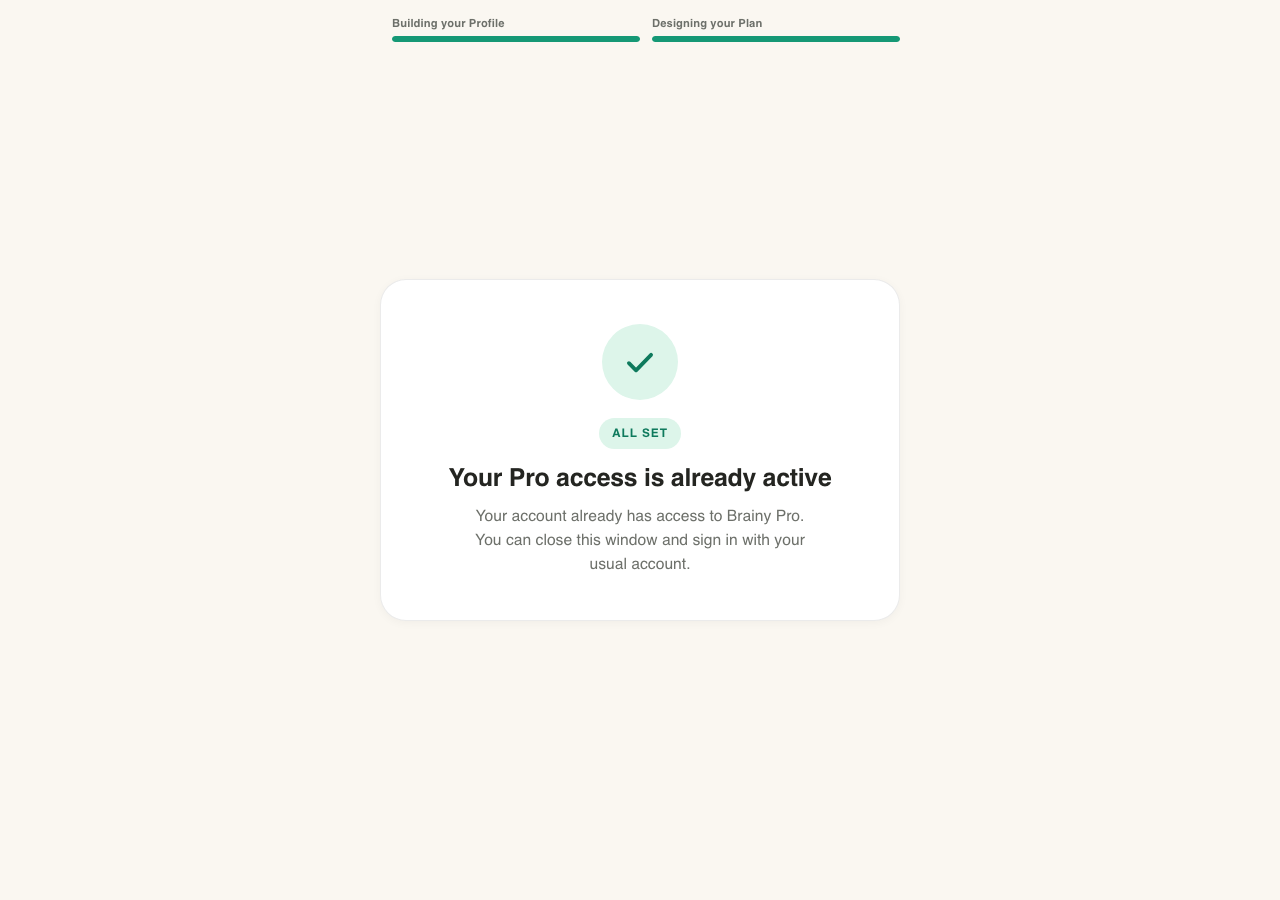
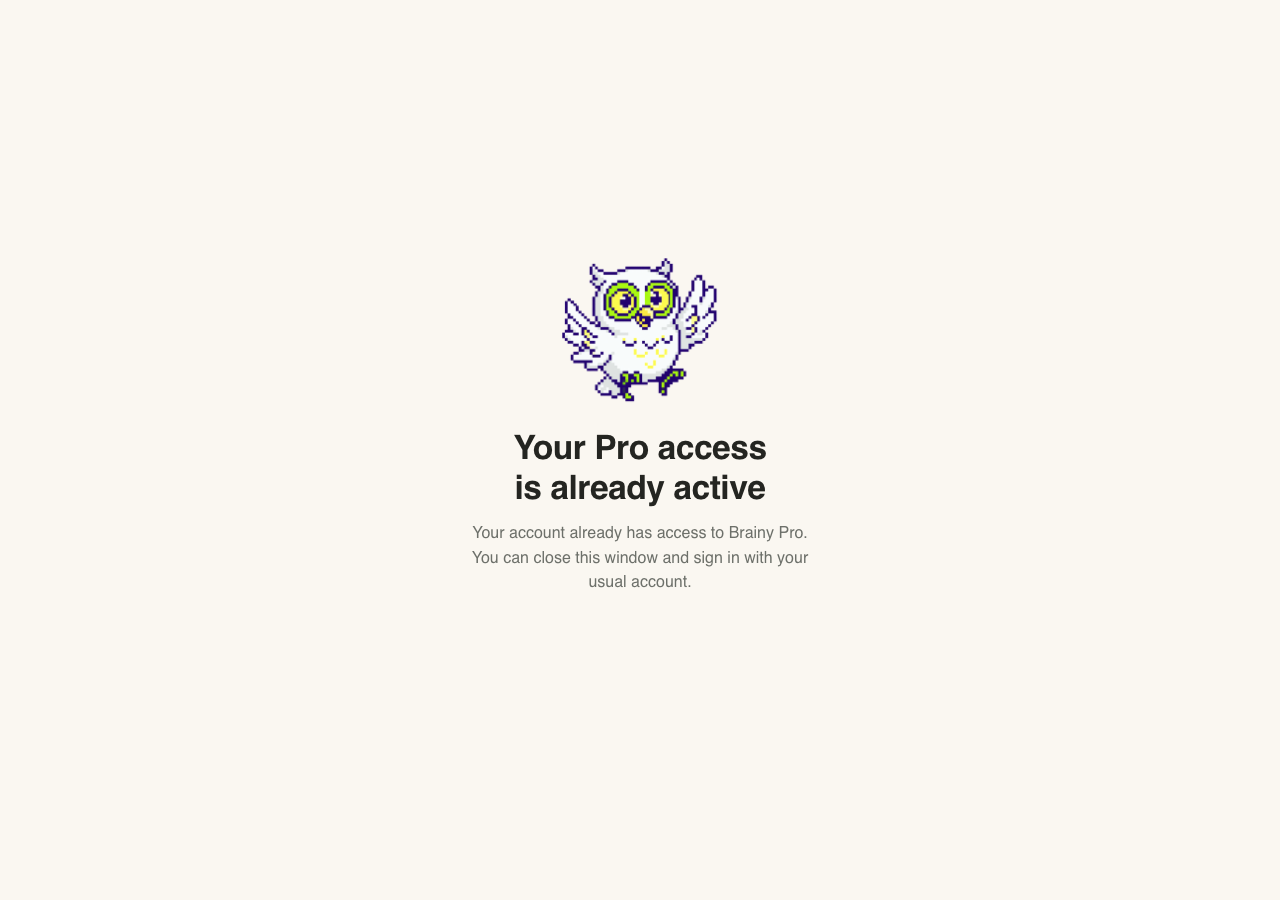
refactor(funnel): rediseño visual de la pantalla final post-compra
Cambio solo de presentacion. Sin logica, sin estados y sin copy de la compra.

Nuevo diseno (ES/EN con localizedText)
- Logo assets/logomain.png centrado arriba, 150px (160 en desktop, 132 bajo
  360px), alto automatico para no deformar. Decorativo: alt vacio y
  aria-hidden.
- Titulo: "¡Tu plan ya está listo!".
- Texto: "En los proximos segundos recibiras un correo con tus datos de acceso
  y las instrucciones para ver tu plan en Brainy."
- Subtitulo: "Cuando tengas la app:".
- Tres pasos numerados con circulos verdes discretos: elegir "Ya tengo una
  Cuenta", ingresar con correo y contrasena, escribir las credenciales del
  correo.
- Nota: revisar Spam o Promociones.

Sin tarjeta pesada: el bloque blanco sutil es solo el de las instrucciones.
Contenedor de 520px, centrado verticalmente cuando cabe, sin overflow
horizontal desde 320px.

Eliminado de esta pantalla: encabezado de etapas "Creando tu Perfil /
Disenando tu Plan" (updateProgress lo oculta en success y handoff), check
grande, bloque de correo con sobre, nota de cierre, boton "Abrir Brainy", QR,
"Copiar enlace", App Store, Google Play, deep links, "Gestionar suscripcion",
CTAs, enlaces y redirecciones. Cero elementos enfocables.

Sin cambios: purchase(), recovery (retryHandoffBtn intacto), la variante
alreadyPro, la navegacion y el orden de pasos, las condiciones de exito, el
checkout, RevenueCat, Stripe, Supabase y el backend.

Changed region(s): [[0.3438, 0.28, 0.6562, 0.6533], [0.3125, 0.0, 0.7188, 0.0622]]

diff --git a/funnel.html b/funnel.html
@@ -3254,167 +3254,115 @@
 
           /* ============================================================
              Pantalla terminal post-compra.
-             Una sola confirmacion, sin acciones: no abre la app, no
-             instala nada, no lleva a ningun sitio. Solo confirma que
-             la compra y el plan se completaron y que el correo con
-             las instrucciones esta en camino.
+             Presentacion informativa y sin acciones: solo confirma que
+             la compra y el plan se completaron y explica como entrar
+             cuando el usuario tenga la app. Sin tarjeta pesada: el
+             unico bloque blanco es el de las instrucciones.
              Sin botones, sin enlaces y sin elementos enfocables.
              ============================================================ */
           .step-done {
-              padding: 24px;
-              border-radius: 26px;
-              box-shadow: 0 2px 10px rgba(36, 37, 33, 0.04);
+              width: 100%;
+              max-width: 520px;
+              margin-inline: auto;
+              padding: 28px 22px;
+              background: none;
+              border: 0;
+              box-shadow: none;
+              text-align: center;
           }
-
 
           .step-done-inner {
               display: flex;
               flex-direction: column;
               align-items: center;
-              text-align: center;
           }
 
-
-          .done-badge {
-              display: grid;
-              place-items: center;
-              width: 76px;
-              height: 76px;
-              border-radius: 50%;
-              background: var(--funnel-accent-soft);
-              color: var(--funnel-accent-strong);
-              margin-bottom: 18px;
-          }
-
-
-          .done-badge svg {
-              width: 38px;
-              height: 38px;
+          .done-logo {
+              width: 150px;
+              max-width: 42vw;
+              height: auto;
               display: block;
+              margin-bottom: 20px;
           }
-
-
-          .done-eyebrow {
-              display: inline-flex;
-              align-items: center;
-              padding: 7px 13px;
-              border-radius: 999px;
-              background: var(--funnel-accent-soft);
-              color: var(--funnel-accent-strong);
-              font-size: 0.74rem;
-              font-weight: 800;
-              letter-spacing: 0.08em;
-              text-transform: uppercase;
-              margin-bottom: 14px;
-          }
-
 
           .step-done h1 {
-              margin: 0 0 10px;
-              font-size: 1.55rem;
-              line-height: 1.22;
-              letter-spacing: -0.01em;
+              margin: 0 0 12px;
+              font-size: 1.85rem;
+              line-height: 1.2;
+              letter-spacing: -0.015em;
+              color: var(--funnel-text);
               text-wrap: balance;
           }
 
-
           .done-lede {
               margin: 0;
+              max-width: 40ch;
               color: var(--funnel-muted);
-              font-size: 0.98rem;
+              font-size: 1rem;
               line-height: 1.55;
-              max-width: 42ch;
               text-wrap: pretty;
           }
 
+          .done-subtitle {
+              margin: 26px 0 10px;
+              font-size: 0.95rem;
+              font-weight: 800;
+              color: var(--funnel-text);
+          }
 
-          .done-mail {
-              display: flex;
-              gap: 14px;
-              align-items: flex-start;
+          .done-steps {
               width: 100%;
-              margin-top: 22px;
-              padding: 18px;
+              margin: 0;
+              padding: 18px 18px 16px;
+              list-style: none;
+              counter-reset: done-step;
+              background: var(--funnel-surface);
+              border: 1px solid var(--funnel-border);
               border-radius: 18px;
-              background: var(--funnel-accent-soft);
+              box-shadow: var(--funnel-shadow);
               text-align: left;
           }
 
-
-          .done-mail-icon {
-              flex: 0 0 auto;
-              display: grid;
-              place-items: center;
-              width: 40px;
-              height: 40px;
-              border-radius: 12px;
-              background: rgba(255, 255, 255, 0.85);
-              color: var(--funnel-accent-strong);
-          }
-
-
-          .done-mail-icon svg {
-              width: 21px;
-              height: 21px;
-              display: block;
-          }
-
-
-          .done-mail-title {
-              margin: 0 0 4px;
-              font-size: 0.97rem;
-              font-weight: 800;
-              color: var(--funnel-accent-strong);
-          }
-
-
-          .done-mail-text {
-              margin: 0;
-              font-size: 0.93rem;
+          .done-steps li {
+              counter-increment: done-step;
+              position: relative;
+              padding-left: 34px;
+              font-size: 0.95rem;
               line-height: 1.5;
               color: var(--funnel-text);
           }
 
+          .done-steps li + li {
+              margin-top: 12px;
+          }
+
+          .done-steps li::before {
+              content: counter(done-step);
+              position: absolute;
+              left: 0;
+              top: 1px;
+              display: grid;
+              place-items: center;
+              width: 22px;
+              height: 22px;
+              border-radius: 50%;
+              background: var(--funnel-accent-soft);
+              color: var(--funnel-accent-strong);
+              font-size: 0.76rem;
+              font-weight: 800;
+              font-variant-numeric: tabular-nums;
+          }
 
           .done-note {
               margin: 16px 0 0;
-              font-size: 0.88rem;
+              max-width: 40ch;
+              font-size: 0.86rem;
               line-height: 1.5;
               color: var(--funnel-muted);
-              max-width: 40ch;
               text-wrap: pretty;
           }
 
-
-          .done-close {
-              margin: 18px 0 0;
-              font-size: 0.9rem;
-              font-weight: 700;
-              color: var(--funnel-accent-strong);
-          }
-
-
-          @media (min-width: 768px) {
-              .step-done {
-                  padding: 44px;
-              }
-          }
-
-
-          @media (max-width: 360px) {
-              .step-done {
-                  padding: 20px 18px;
-              }
-          }
-
-
-          /* Centrado vertical a CUALQUIER anchura, no solo en desktop.
-             En movil la cadena main > .shell > .funnel-root es block, asi que
-             margin-block:auto no tendria espacio que repartir. Estas reglas solo
-             se activan cuando la tarjeta terminal esta montada (:has), de modo
-             que el resto de pantallas del funnel no cambia.
-             Si el contenido no cabe (pantallas bajas) los margenes colapsan a 0
-             y la tarjeta se ve completa con scroll normal. */
+          /* Centrado vertical a cualquier anchura, solo en esta pantalla. */
           body:has(.step-done) main.shell {
               display: flex;
               flex-direction: column;
@@ -3429,6 +3377,43 @@
 
           .funnel-root > .step-done {
               margin-block: auto;
+          }
+
+          @media (min-width: 768px) {
+              .step-done {
+                  padding: 40px 32px;
+              }
+
+              .done-logo {
+                  width: 160px;
+              }
+
+              .step-done h1 {
+                  font-size: 2.1rem;
+              }
+          }
+
+          @media (max-width: 360px) {
+              .step-done {
+                  padding: 24px 16px;
+              }
+
+              .done-logo {
+                  width: 132px;
+              }
+
+              .step-done h1 {
+                  font-size: 1.6rem;
+              }
+
+              .done-steps {
+                  padding: 16px 14px 14px;
+              }
+
+              .done-steps li {
+                  padding-left: 30px;
+                  font-size: 0.92rem;
+              }
           }
 
           @media (prefers-reduced-motion: reduce) {
@@ -5843,18 +5828,19 @@
             const activeStage = stageIndexOfStep(step);
             const progressPair = stageProgress();
             const isTerminal = step.type === 'success' || step.type === 'handoff';
-            // En la pantalla terminal las dos etapas quedan completas: el
-            // funnel ya terminó. `finished` mantenía solo el último paso como
-            // 'done', así que success mostraba la segunda etapa a medias.
-            const finished = currentStepIndex >= steps.length - 1 || isTerminal;
-            progress.hidden = false;
+            // En la pantalla terminal ya no se muestra el encabezado de
+            // etapas: la confirmacion es un cierre, no un paso del funnel.
             if (isTerminal) {
-                document.getElementById(FUNNEL_STAGES[0].fillId).style.width = '100%';
-                document.getElementById(FUNNEL_STAGES[1].fillId).style.width = '100%';
-            } else {
-                document.getElementById(FUNNEL_STAGES[0].fillId).style.width = `${progressPair[0] * 100}%`;
-                document.getElementById(FUNNEL_STAGES[1].fillId).style.width = `${progressPair[1] * 100}%`;
+                progress.hidden = true;
+                label.textContent = '';
+                label.hidden = true;
+                syncBackVisibility();
+                return;
             }
+            const finished = currentStepIndex >= steps.length - 1;
+            progress.hidden = false;
+            document.getElementById(FUNNEL_STAGES[0].fillId).style.width = `${progressPair[0] * 100}%`;
+            document.getElementById(FUNNEL_STAGES[1].fillId).style.width = `${progressPair[1] * 100}%`;
             progress.querySelectorAll('.funnel-stage').forEach((node, index) => {
                 let state = 'idle';
                 if (finished || index < activeStage) {
@@ -8664,58 +8650,37 @@
            seguir procesando la entrega cuando el usuario ve esto.
            ============================================================ */
         function renderTerminalDone(existingPro) {
-            // Icono decorativo: aria-hidden, sin texto alternativo.
-            const checkIcon = `
-                <div class="done-badge" aria-hidden="true">
-                    <svg viewBox="0 0 24 24" fill="none" focusable="false">
-                        <path d="M5 12.75l4.5 4.5L19 7.5" stroke="currentColor" stroke-width="2.4"
-                              stroke-linecap="round" stroke-linejoin="round"/>
-                    </svg>
-                </div>`;
-            const mailIcon = `
-                <span class="done-mail-icon" aria-hidden="true">
-                    <svg viewBox="0 0 24 24" fill="none" focusable="false">
-                        <rect x="2.75" y="5.25" width="18.5" height="13.5" rx="2.25"
-                              stroke="currentColor" stroke-width="1.7"/>
-                        <path d="M3.5 7.5l8.5 6 8.5-6" stroke="currentColor" stroke-width="1.7"
-                              stroke-linecap="round" stroke-linejoin="round"/>
-                    </svg>
-                </span>`;
+            // Sin tarjeta pesada y sin acciones: solo confirmacion e instrucciones.
+            // El logo es decorativo y la imagen no aporta informacion nueva.
+            const logo = `<img class="done-logo" src="assets/logomain.png" alt="" aria-hidden="true" width="150" height="150">`;
 
-            // alreadyPro: el backend NO emite credenciales nuevas, así que no
-            // se promete ningún correo. Solo se confirma el acceso existente.
+            // alreadyPro: el backend NO emite credenciales nuevas, asi que no se
+            // promete ningun correo. Se mantiene su copy y su variante.
             const title = existingPro
                 ? localizedText('Tu acceso Pro ya está activo', 'Your Pro access is already active')
-                : localizedText('Tu plan está listo', 'Your plan is ready');
+                : localizedText('¡Tu plan ya está listo!', 'Your plan is ready!');
             const lede = existingPro
                 ? localizedText('Tu cuenta ya tiene acceso a Brainy Pro. Puedes cerrar esta ventana e iniciar sesión con tu cuenta habitual.', 'Your account already has access to Brainy Pro. You can close this window and sign in with your usual account.')
-                : localizedText('Tu compra se completó correctamente y tu plan personalizado de Brainy ya fue creado.', 'Your purchase completed successfully and your personalized Brainy plan has been created.');
+                : localizedText('En los próximos segundos recibirás un correo con tus datos de acceso y las instrucciones para ver tu plan en Brainy.', 'In the next few seconds you’ll receive an email with your access details and the instructions to see your plan in Brainy.');
 
-            const mailBlock = existingPro ? '' : `
-                <div class="done-mail">
-                    ${mailIcon}
-                    <div>
-                        <p class="done-mail-title">${localizedText('Revisa tu correo', 'Check your email')}</p>
-                        <p class="done-mail-text">${localizedText('En pocos segundos recibirás un email con tus datos de acceso y las instrucciones para entrar a Brainy.', 'In a few seconds you’ll receive an email with your access details and the instructions to sign in to Brainy.')}</p>
-                    </div>
-                </div>
-                <p class="done-note">${localizedText('Si no lo encuentras después de unos minutos, revisa las carpetas Spam o Promociones.', 'If you don’t find it after a few minutes, check your Spam or Promotions folders.')}</p>`;
+            const steps = existingPro ? '' : `
+                <p class="done-subtitle">${localizedText('Cuando tengas la app:', 'Once you have the app:')}</p>
+                <ol class="done-steps">
+                    <li>${localizedText('Elige «Ya tengo una Cuenta».', 'Choose “I already have an account”.')}</li>
+                    <li>${localizedText('Selecciona ingresar con correo y contraseña.', 'Select sign in with email and password.')}</li>
+                    <li>${localizedText('Escribe las credenciales que recibirás en el correo.', 'Enter the credentials you’ll receive by email.')}</li>
+                </ol>
+                <p class="done-note">${localizedText('Si no encuentras el mensaje después de unos minutos, revisa Spam o Promociones.', 'If you don’t find the message after a few minutes, check Spam or Promotions.')}</p>`;
 
-            const closing = existingPro ? '' :
-                `<p class="done-close">${localizedText('Puedes cerrar esta ventana.', 'You can close this window.')}</p>`;
-
-            // role="status" + aria-live="polite": el lector de pantalla
-            // anuncia la confirmación sin robar el foco. Sin tabindex, sin
-            // botones y sin enlaces: nada enfocable.
+            // role="status" + aria-live="polite": el lector de pantalla anuncia
+            // la confirmacion sin robar el foco. Nada enfocable.
             document.getElementById('funnelRoot').innerHTML = `
                 ${cardOpen('step-done')}
                     <div class="step-done-inner" role="status" aria-live="polite">
-                        ${checkIcon}
-                        <span class="done-eyebrow">${localizedText('Todo listo', 'All set')}</span>
+                        ${logo}
                         <h1>${title}</h1>
                         <p class="done-lede">${lede}</p>
-                        ${mailBlock}
-                        ${closing}
+                        ${steps}
                     </div>
                 </article>`;
         }
